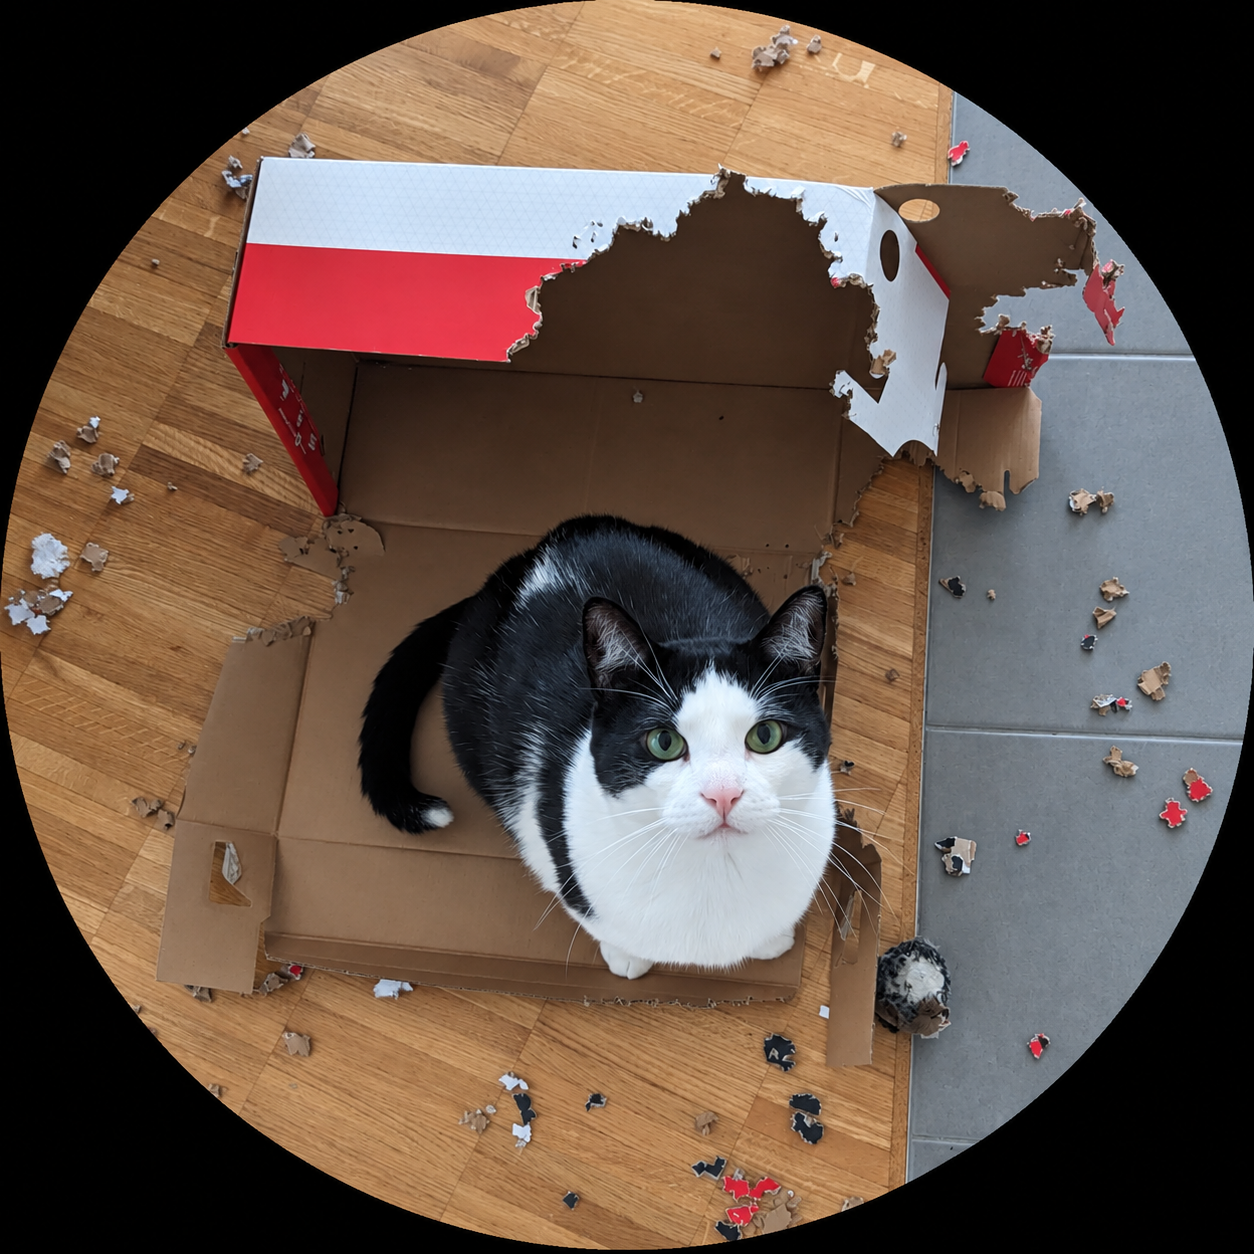
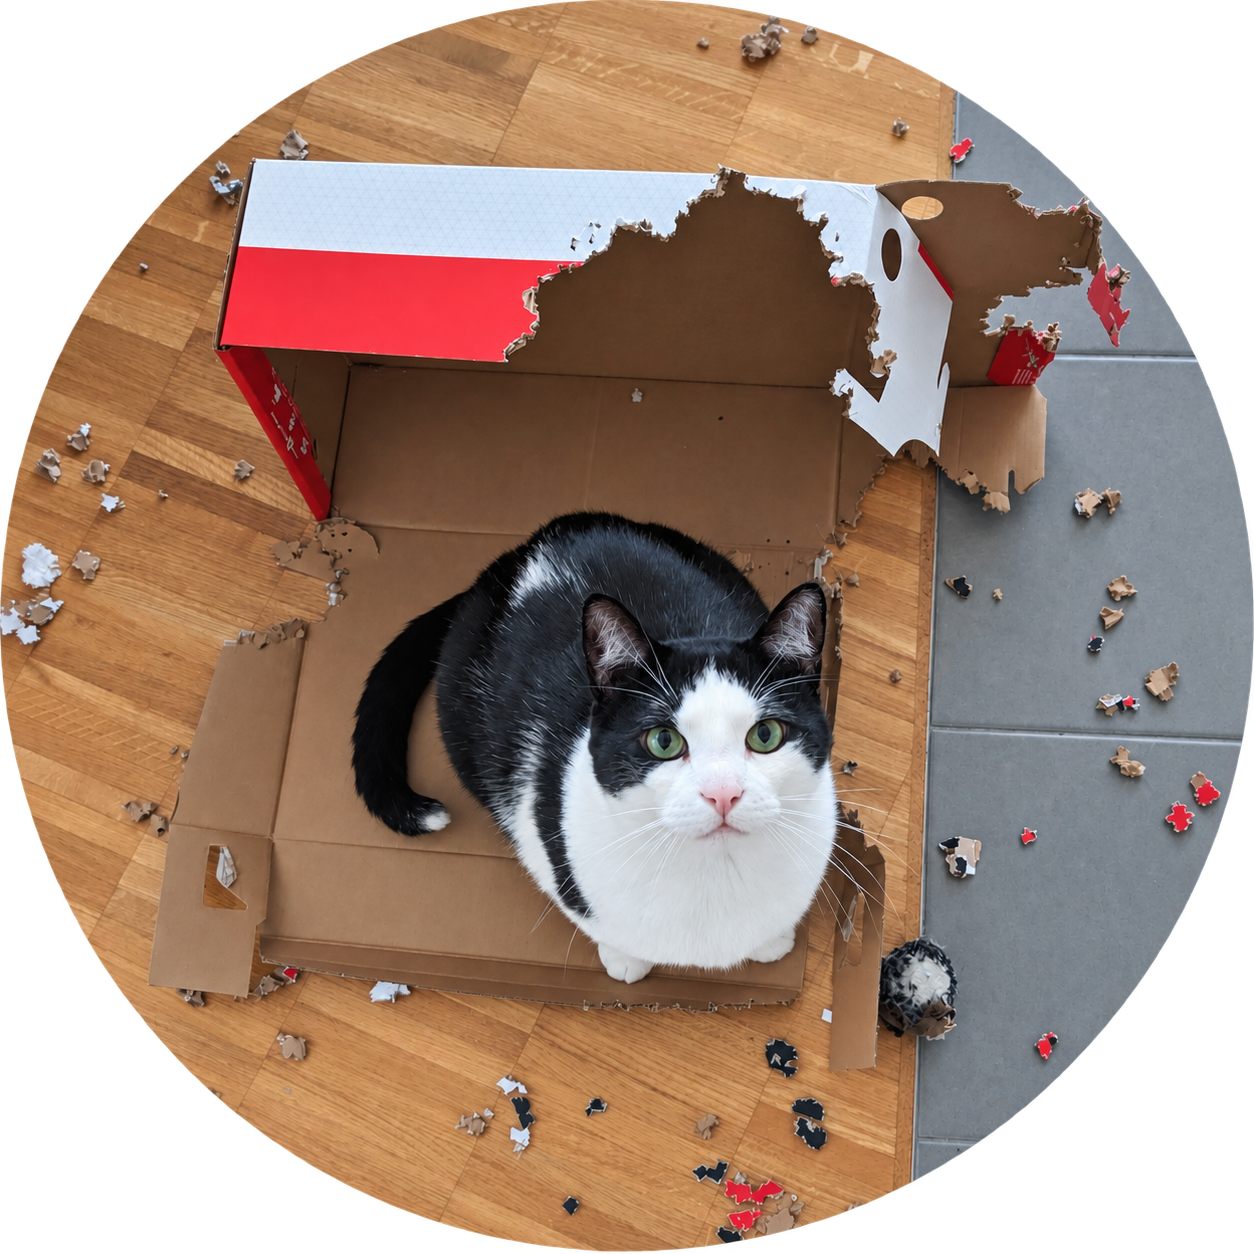
added other images and change size

diff --git a/assets/css/custom.css b/assets/css/custom.css
@@ -9,3 +9,30 @@ a:hover,
 .navbar .navbar-nav .nav-item.active > .nav-link {
   color: #0B4F8A !important;
 }
+
+.owen-equal-height {
+  display: flex;
+  gap: 1.5rem;
+  align-items: flex-start;
+}
+
+.owen-equal-height > div {
+  flex: 1;
+}
+
+.owen-equal-height img {
+  width: 100%;
+  height: 320px;
+  object-fit: contain;
+}
+
+@media (max-width: 600px) {
+  .owen-equal-height {
+    display: block;
+  }
+
+  .owen-equal-height img {
+    width: 100%;
+    height: auto;
+  }
+}

diff --git a/_pages/owen-cat.md b/_pages/owen-cat.md
@@ -47,20 +47,22 @@ Owen has been involved in the development of OMEN-SED for many years. His respon
 
 Owen's research interests extend considerably beyond sediment biogeochemistry. Among other things, he conducts experimental work on radiation exposure and extensive field studies of terrestrial vegetation.
 
-<div style="max-width: 500px; margin: 1.5rem auto;">
-  {% include figure.liquid
-     path="assets/img/owen/Owen_Sun0125.jpg"
+<div class="owen-equal-height">
+  <div>
+    {% include figure.liquid
+     path="assets/img/owen/Owen_Sun_cropped.png"
      class="img-fluid rounded z-depth-1"
      caption="Experimental work on prolonged radiation exposure."
-  %}
-</div>
+    %}
+  </div>
 
-<div style="max-width: 700px; margin: 1.5rem auto;">
-  {% include figure.liquid
+  <div>
+    {% include figure.liquid
      path="assets/img/owen/PXL_20260705_074535409.MP.jpg"
      class="img-fluid rounded z-depth-1"
      caption="Field work investigating interactions with terrestrial vegetation."
-  %}
+    %}
+  </div>
 </div>
 
 A further research focus is **complex problem solving**. Owen's preferred approach is to first establish the full extent of a problem and then remain close to it until a solution emerges.
@@ -80,15 +82,16 @@ A further research focus is **complex problem solving**. Owen's preferred approa
 
 Like any successful researcher, Owen recognizes the importance of recovery. Periods of intensive model development and field work are therefore interspersed with carefully planned periods of rest.
 
-<div class="row">
-  <div class="col-sm-6 mt-3 mt-md-0">
+<div class="owen-equal-height">
+  <div>
     {% include figure.liquid
        path="assets/img/owen/PXL_20220513_073346986.jpg"
        class="img-fluid rounded z-depth-1"
        caption="Recovery after an intensive period of research."
     %}
   </div>
-  <div class="col-sm-6 mt-3 mt-md-0">
+
+  <div>
     {% include figure.liquid
        path="assets/img/owen/owen_box_circle_full.png"
        class="img-fluid rounded z-depth-1"
@@ -96,7 +99,6 @@ Like any successful researcher, Owen recognizes the importance of recovery. Peri
     %}
   </div>
 </div>
-
 
 ### Contact
 
